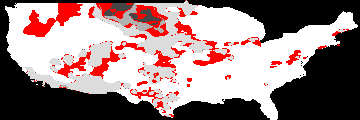
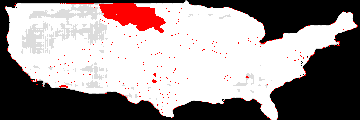
Fixing ViViT image generation

diff --git a/ImageDifferences.py b/ImageDifferences.py
@@ -72,8 +72,8 @@ horizon = 12
 #original = np.load("Models/DiferencesOriginal5.npy")
 
 #Mejor Sequia ViViT
-#forecasts = np.load("Models/DiferencesForecast4DroughtDataset_model_testing_1760123802.npy")
-#original = np.load("Models/DiferencesOriginal4.npy")
+forecasts = np.load("Models/DiferencesForecast4DroughtDataset_model_testing_1760123802.npy")
+original = np.load("Models/DiferencesOriginal4.npy")
 
 #Mejor Sequia Recursiva
 #forecasts = np.load("Models/DiferencesForecast10DroughtDataset_model_testing_1759339807.npy")
@@ -84,8 +84,8 @@ horizon = 12
 #original = np.load("Models/DiferencesOriginal3.npy")
 
 #Mejor SPI ConvLSTM
-forecasts = np.load("Models/DiferencesForecast5SPIDataset_model_testing_1759392299.npy")
-original = np.load("Models/DiferencesOriginal5.npy")
+#forecasts = np.load("Models/DiferencesForecast5SPIDataset_model_testing_1759392299.npy")
+#original = np.load("Models/DiferencesOriginal5.npy")
 
 #original = np.load("Models/DiferencesOriginal6.npy")
 #original = np.load("Models/DiferencesOriginal12.npy")
@@ -130,10 +130,10 @@ for i in range(len(original)):
     #Tesis
     #cv2.imwrite("GeneratedImageComparation/DifferenceSequiaConvLSTM_t+{}.png".format(i), result)
     #cv2.imwrite("GeneratedImageComparation/DifferenceSequiaMultiCNN_t+{}.png".format(i), result)
-    #cv2.imwrite("GeneratedImageComparation/DifferenceSequiaViViT_t+{}.png".format(i), result)
+    cv2.imwrite("GeneratedImageComparation/DifferenceSequiaViViT_t+{}.png".format(i), result)
     #cv2.imwrite("GeneratedImageComparation/DifferenceSequiaRecursiva_t+{}.png".format(i), result)
     #cv2.imwrite("GeneratedImageComparation/DifferenceSequiaDirecta_t+{}.png".format(i), result)
-    cv2.imwrite("GeneratedImageComparation/DifferenceSPIConvLSTM_t+{}.png".format(i), result)
+    #cv2.imwrite("GeneratedImageComparation/DifferenceSPIConvLSTM_t+{}.png".format(i), result)
 
 
 """for i in range(len(original)):
